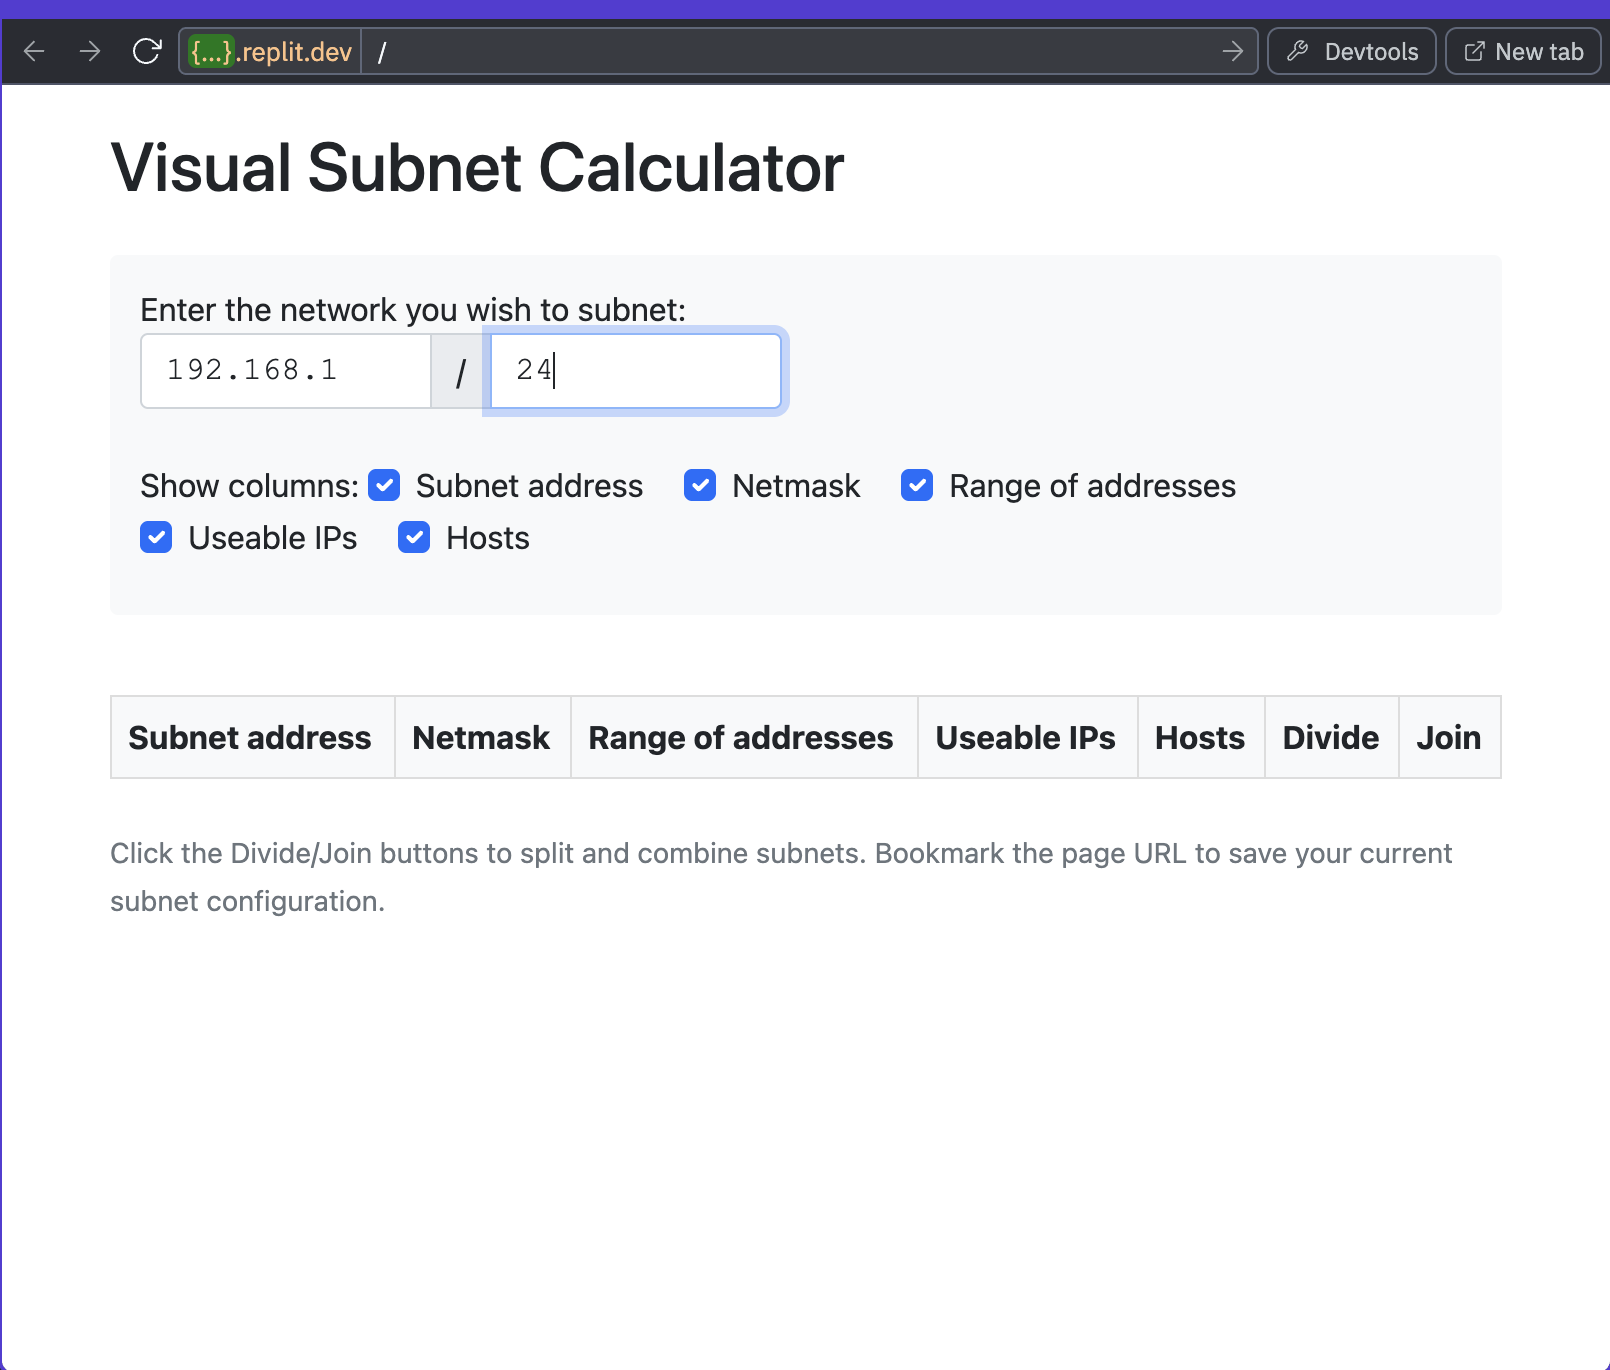
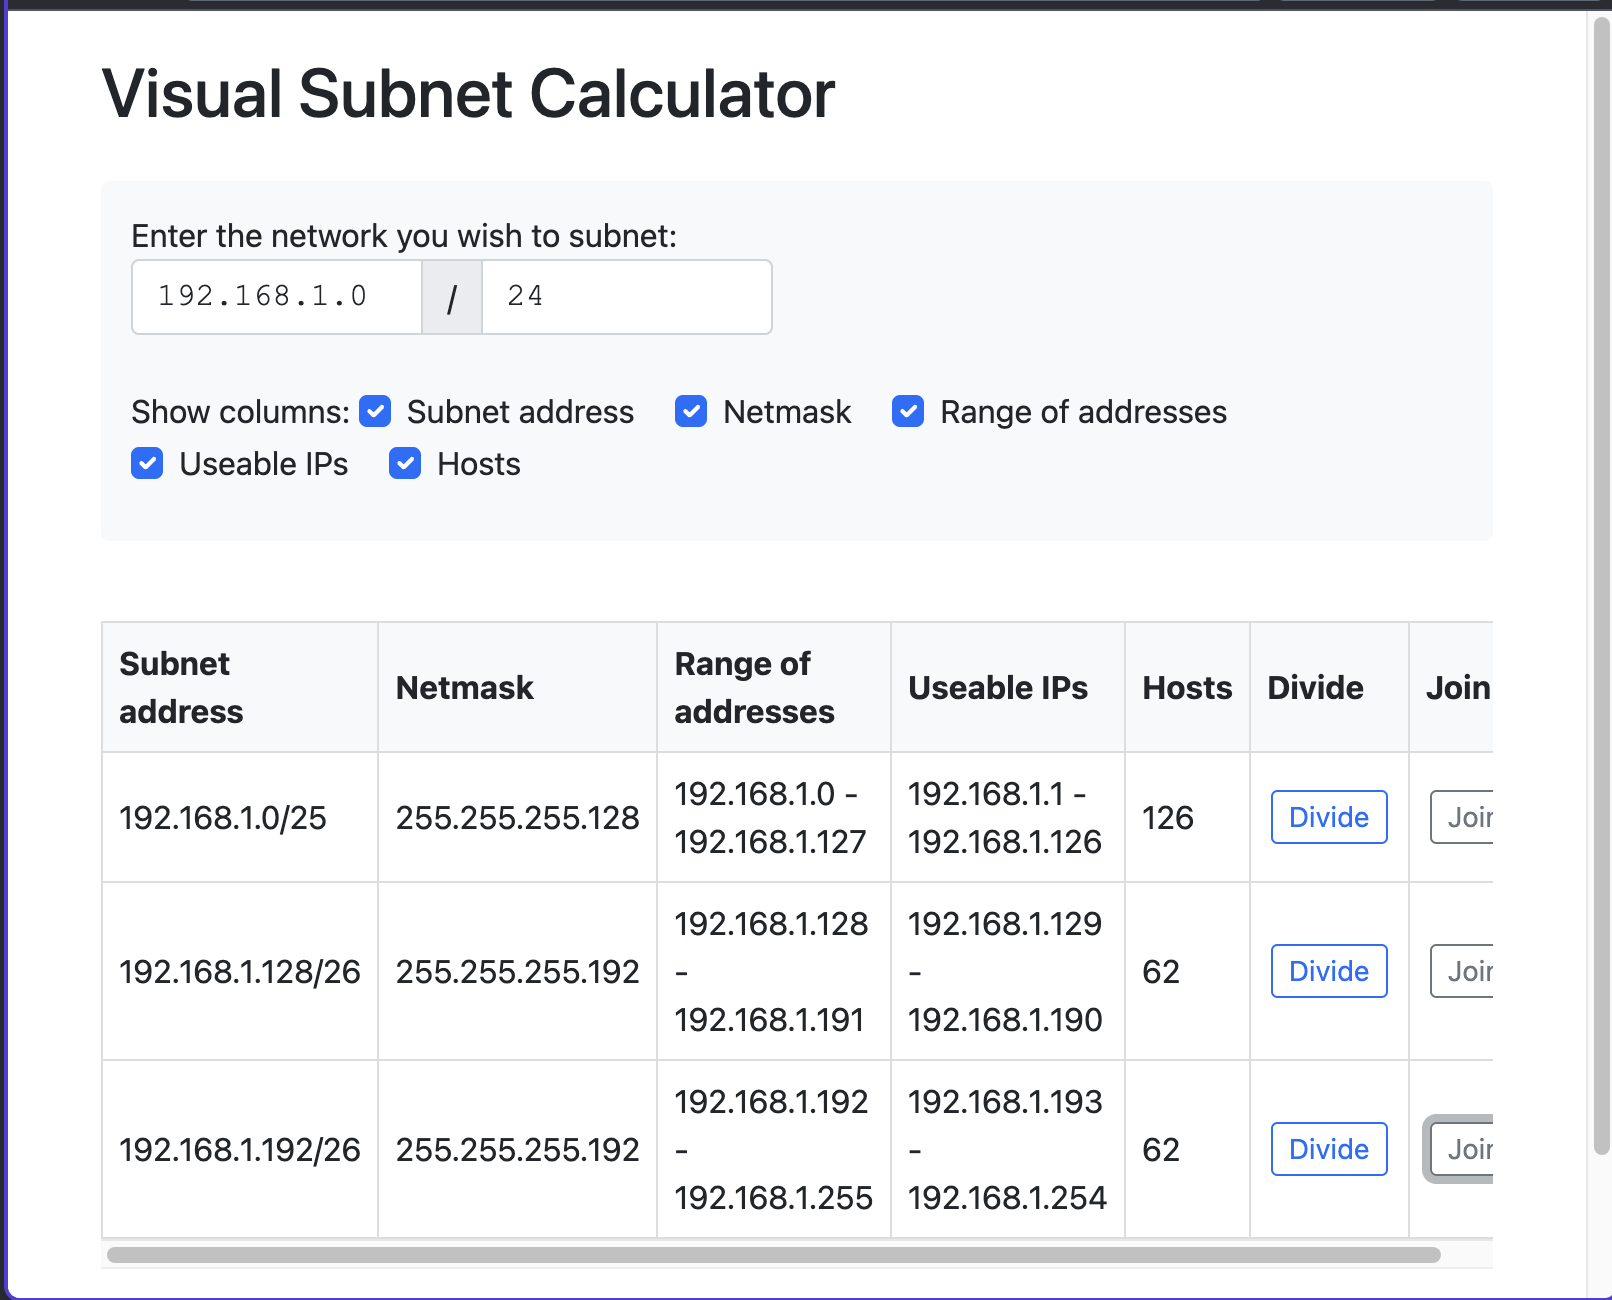
Agent query: Can you try dividing a subnet and then joining them back together? The join functionality should now work correctly when joining adjacent subnets.

diff --git a/static/js/subnet.js b/static/js/subnet.js
@@ -123,16 +123,31 @@ class SubnetCalculator {
     }
 
     joinSubnets(index) {
-        if (index % 2 !== 0 || index + 1 >= this.subnets.length) return;
+        // Can't join if it's the last subnet or subnets have different mask bits
+        if (index + 1 >= this.subnets.length) return;
         
         const subnet1 = this.subnets[index];
         const subnet2 = this.subnets[index + 1];
         
         if (subnet1.maskBits !== subnet2.maskBits) return;
         
-        const network = subnet1.networkAddress.split('/')[0];
+        // Check if subnets are adjacent
+        const network1 = subnet1.networkAddress.split('/')[0].split('.').map(Number);
+        const network2 = subnet2.networkAddress.split('/')[0].split('.').map(Number);
+        
+        // Calculate the network block size
+        const blockSize = Math.pow(2, 32 - subnet1.maskBits);
+        
+        // Convert IP to numeric value for comparison
+        const ip1 = network1.reduce((acc, octet, i) => acc + (octet << (24 - (i * 8))), 0);
+        const ip2 = network2.reduce((acc, octet, i) => acc + (octet << (24 - (i * 8))), 0);
+        
+        // Check if networks are adjacent
+        if (ip2 - ip1 !== blockSize) return;
+        
+        // Networks can be joined
         const newMaskBits = subnet1.maskBits - 1;
-        const joinedSubnet = this.getNetworkDetails(network, newMaskBits);
+        const joinedSubnet = this.getNetworkDetails(subnet1.networkAddress.split('/')[0], newMaskBits);
         
         this.subnets.splice(index, 2, joinedSubnet);
         this.updateTable();
